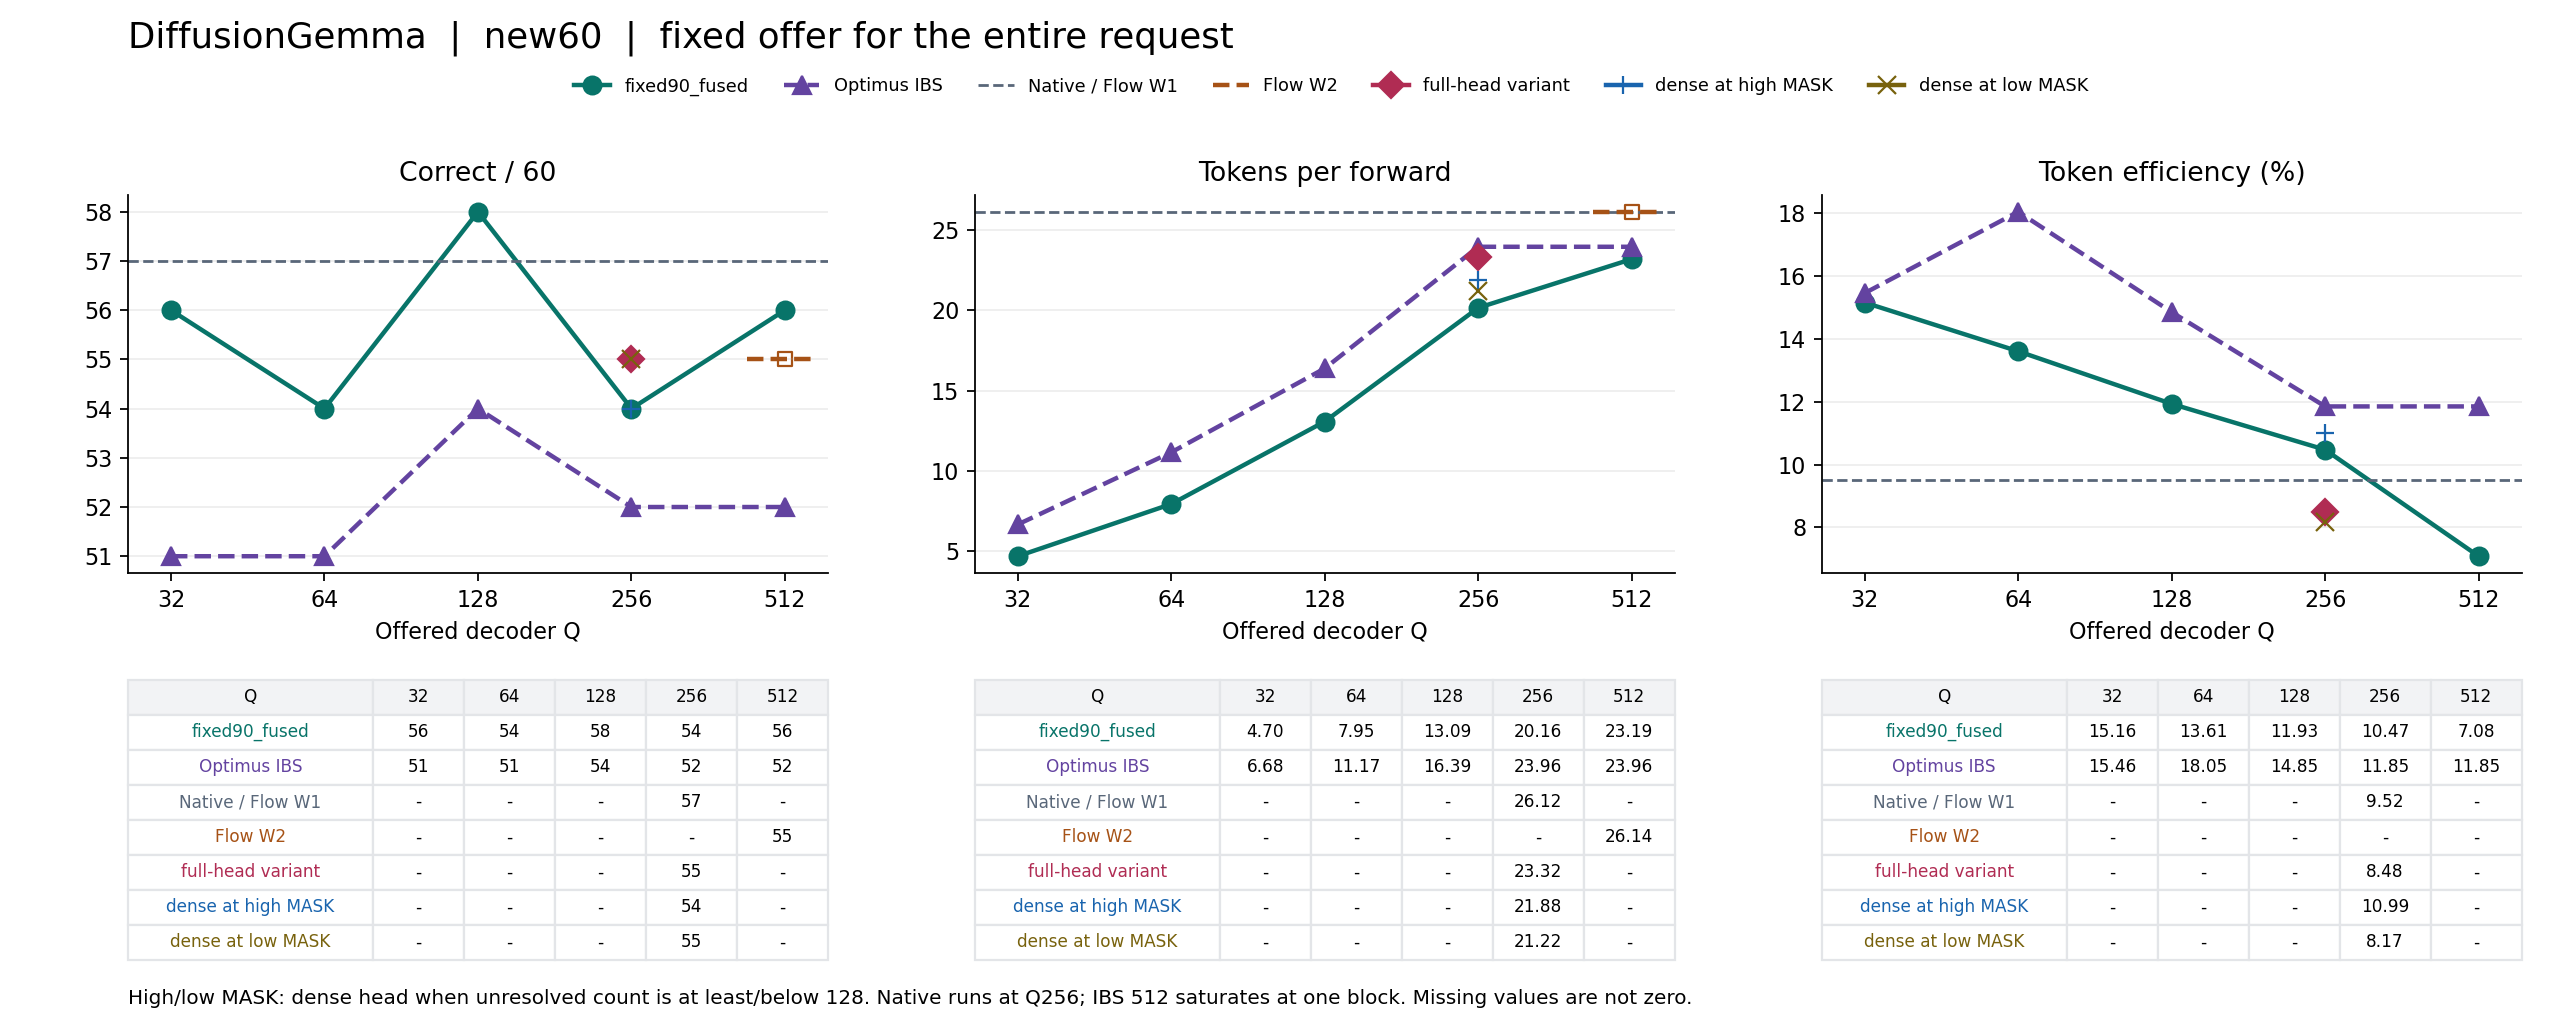
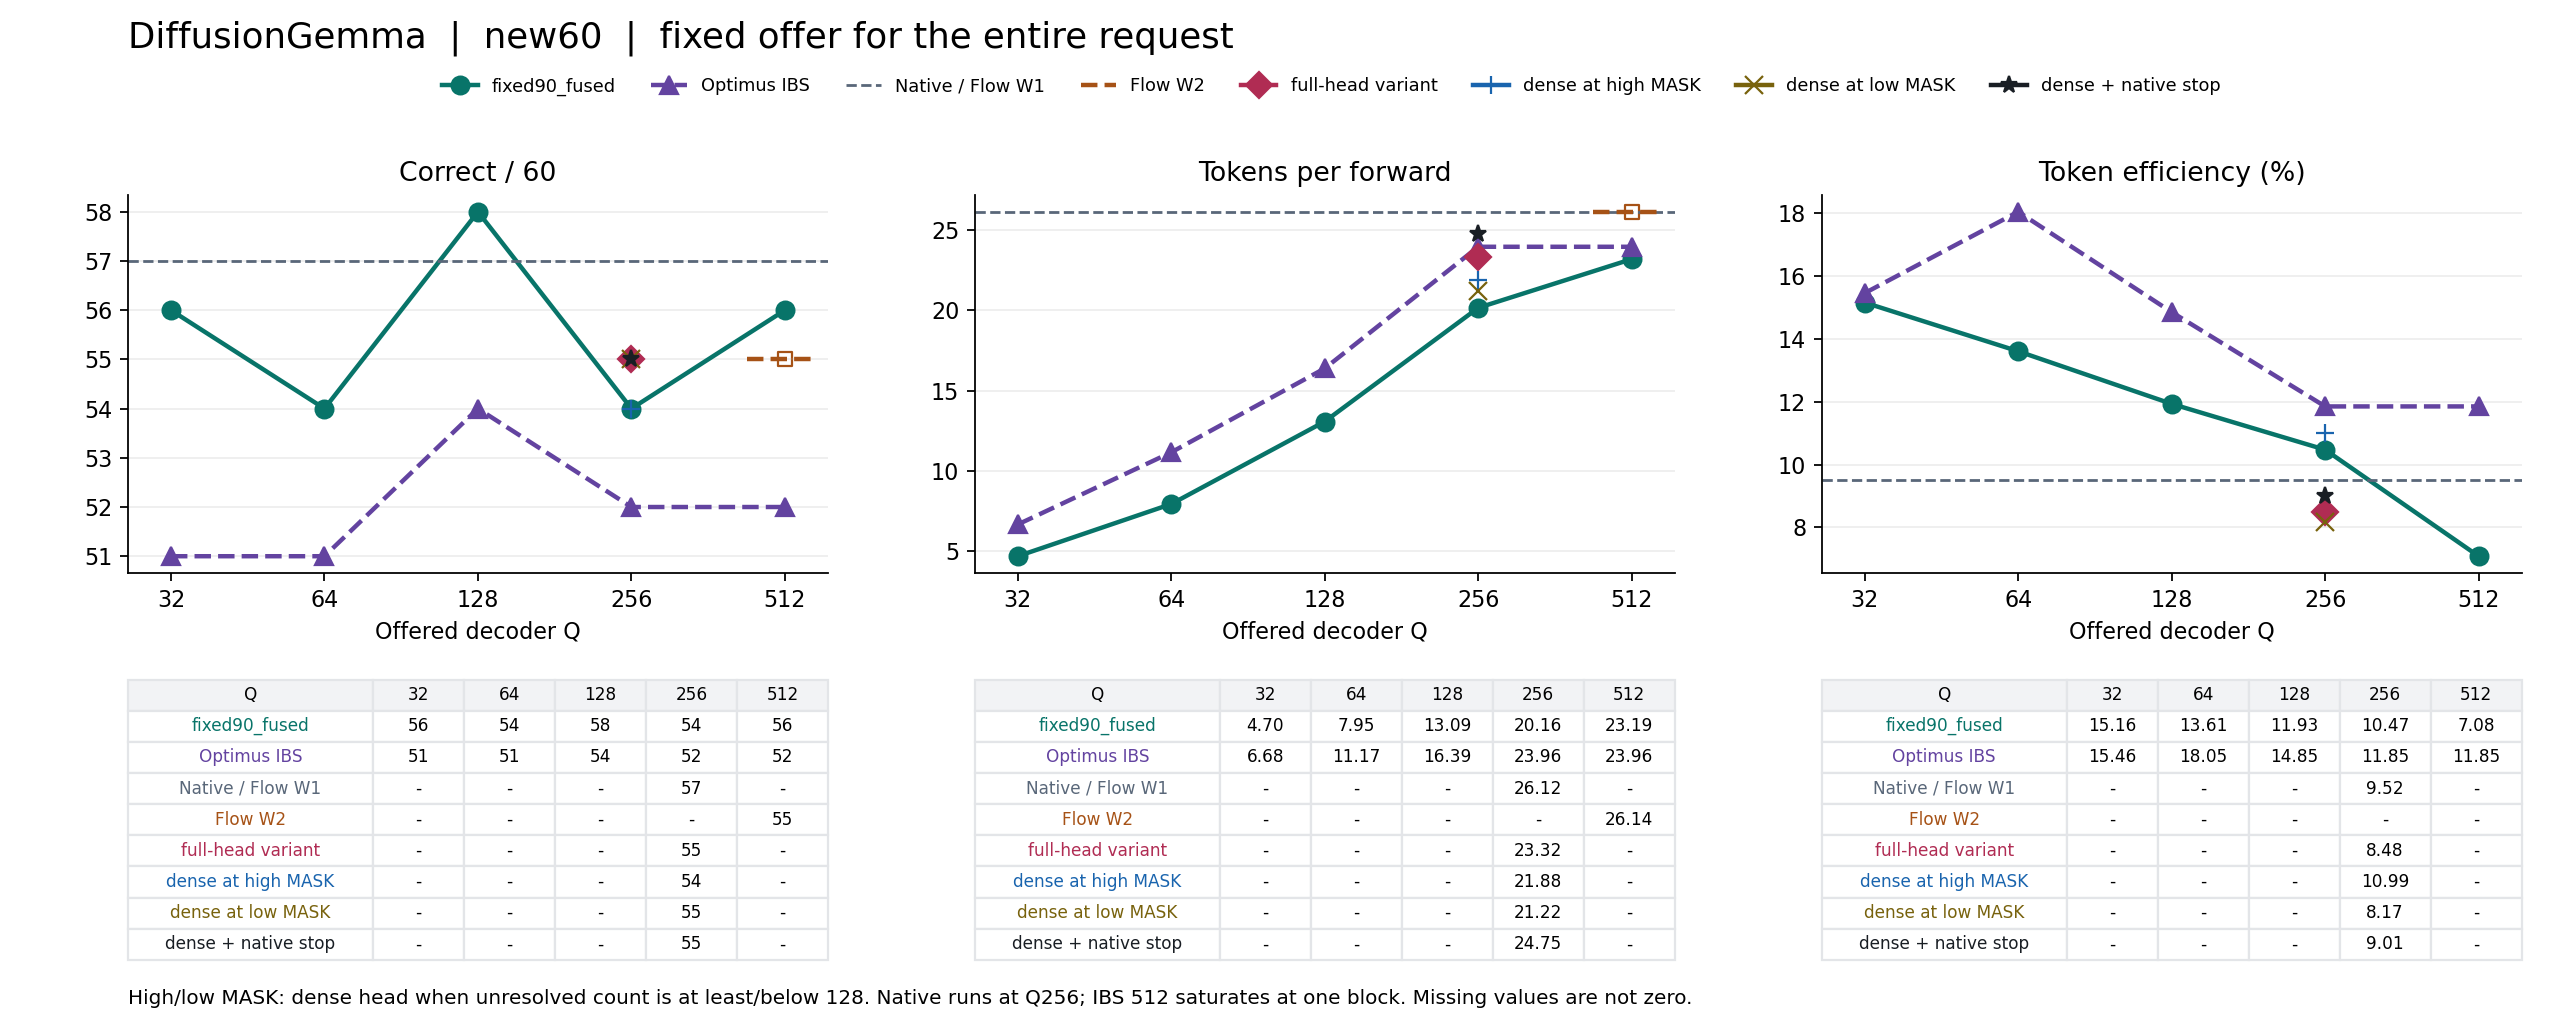
Archive frozen90 dense head stop gain, workload and remaining native gap

diff --git a/experiments/t2t/serving_slots/plot_fixed_gemma_profile.py b/experiments/t2t/serving_slots/plot_fixed_gemma_profile.py
@@ -1,5 +1,6 @@
 """Publish the measured fixed profile against same-cohort external controls."""
 import csv
+import json
 from pathlib import Path
 
 from .factor_tables import write_csv
@@ -19,6 +20,7 @@ def read(path):
 def collect():
     studies = {k:read(FACTORS/k/"paired.csv") for k in ("close","profile-close","capacity","density")}
     baselines = read(ROOT/"block-history90-matrix.csv")
+    stops = {r['cohort']:r for r in map(json.loads,(FACTORS/"fullstop"/"dense-summary.jsonl").read_text().splitlines())}
     rows = []
     for cohort, external, n in COHORTS:
         for c in TIERS:
@@ -44,6 +46,15 @@ def collect():
                     avg_decoder_Q=int(r["decoder_Q"])/int(r["decoder_F"]),peak_decoder_Q=int(r["peak_decoder_Q"]),
                     F=int(r["F"]),N=int(r["N"]),history_Q=int(r["history_Q"]),physical_Q=int(r["physical_Q"]),
                     source=f"gemma-factors/{study}/paired.csv",**roles))
+        result=stops[cohort]
+        stop=result["on"]
+        if (result["tier"]!=256 or result["matched"]!=n or stop["scored"]!=n or result["prior_control_different"]
+                or stop['ticks']*256!=stop['decoder_Q'] or sum(stop['roles'].values())!=stop['decoder_Q']):
+            raise ValueError("Unqualified dense head stop")
+        rows.append(dict(cohort=cohort,method="dense + native stop",budget=256,n=n,correct=stop["correct"],
+            macro_TPF=stop["macro_TPF"],token_efficiency=stop["token_efficiency"],avg_decoder_Q=256,peak_decoder_Q=256,
+            F=stop["F"],N=stop["N"],history_Q=stop["decoder_Q"],physical_Q=stop["decoder_Q"]+stop["encoder_Q"],
+            source="gemma-factors/fullstop/dense-summary.jsonl",**{f"Q_{k}":stop["roles"][k] for k in ROLES}))
         for method, setting, c, label in [
             *(("ibs",q,q,"Optimus IBS") for q in TIERS), ("native",256,256,"Native / Flow W1"),
             ("flow",2,512,"Flow W2"),
@@ -68,7 +79,7 @@ def plot(path, rows):
     n, = {r["n"] for r in rows}
     palette={"fixed90_fused":"#087469","Optimus IBS":"#6343a0","Native / Flow W1":"#596779",
              "Flow W2":"#a65216","full-head variant":"#b02c53",
-             "dense at high MASK":"#1964ae","dense at low MASK":"#78620d"}
+             "dense at high MASK":"#1964ae","dense at low MASK":"#78620d","dense + native stop":"#191e24"}
     fig, axes = plt.subplots(1,3,figsize=(16,6.4))
     handles = {}
     for ax, (col,title,scale) in zip(axes, (("correct",f"Correct / {n}",1),
@@ -88,7 +99,7 @@ def plot(path, rows):
                 ax.scatter(x,y,marker="s",facecolors="none",edgecolors=color,s=40)
             else:
                 h,=ax.plot(x,y,marker={"fixed90_fused":"o","Optimus IBS":"^","full-head variant":"D",
-                                       "dense at high MASK":"+","dense at low MASK":"x"}[name],
+                                       "dense at high MASK":"+","dense at low MASK":"x","dense + native stop":"*"}[name],
                            ls="--" if name=="Optimus IBS" else "-",color=color,lw=2,ms=8)
             handles[name]=h
         ax.set(xticks=range(len(TIERS)),xticklabels=TIERS,xlabel="Offered decoder Q",title=title,xlim=(-.28,4.28))

diff --git a/experiments/t2t/serving_slots/controls/gemma-factors/fullstop/readout.py b/experiments/t2t/serving_slots/controls/gemma-factors/fullstop/readout.py
@@ -146,6 +146,16 @@ for c,indices in target.items():
                             resets={k:sum(s['resets'][k] for s in obs) for k in codes})
             if dense:
                 out[label]['token_efficiency']=out[label]['N']/out[label]['decoder_Q']
+                # A verify_paid call is also the measured final input write. Even an
+                # exact full draft would not by itself make this call redundant.
+                out[label]['plain_verify_F']=sum(r['route_F'].get('verify',0) for r in arm)
+                out[label]['verify_with_writes_F']=sum(r['fused_F'] for r in arm)
+                out[label]['covered_final_writes_Q']=sum(r['fused_dirty_Q'] for r in arm)
+                roles=Counter()
+                for r in arm:
+                    assert sum(r['categories'].values())==r['decoder_Q']
+                    roles.update(r['categories'])
+                out[label].update(roles=dict(roles),encoder_Q=sum(r['encoder_Q'] for r in arm))
         ds=[b['N']/b['F']-a['N']/a['F'] for a,b in pairs]
         fs=[b['F']-a['F'] for a,b in pairs]
         out.update(delta_macro_TPF=round(statistics.mean(ds),4), delta_TPF_ci95=ci(pairs,ds),

diff --git a/tests/test_cross_race_report.py b/tests/test_cross_race_report.py
@@ -268,7 +268,7 @@ def test_gemma_published_fixed_offers_and_denominators():
     data=collect()
     for cohort,_,n in COHORTS:
         part=[r for r in data if r["cohort"]==cohort]
-        assert len(part)==15 and all(r["n"]==n for r in part)
+        assert len(part)==16 and all(r["n"]==n for r in part)
         points=[r for r in part if r["method"].startswith("dense at ")]
         assert len(points)==2 and all(r["budget"]==r["peak_decoder_Q"]==256 for r in points)
         if n==90:

diff --git a/experiments/t2t/serving_slots/design_race/README.md b/experiments/t2t/serving_slots/design_race/README.md
@@ -25,6 +25,15 @@
 冷启动、终检和满额写回没有此配额。因此小档若慢，优先查纯刷新轮次、冷启动推进和终检切片，
 而非先砍掉所有前缀。四类的总和不是物理 FLOPs，encoder 另计。见[逐档账表](../controls/gemma-factors/fixed-profile/metrics.csv)。
 
+**终判语义不等于多做一次 forward。** 固定的 Transformers 5.12.0
+`generation_diffusion_gemma.py` 中，`_denoising_step` 从本轮整头的 processed logits
+生成 `argmax_canvas`；`generate` 的阶段 1.d 在停止后直接拼接它，再 `_finalize_canvas`。
+原生并不额外执行我们稀疏算法的终检。选行模式的各行可能来自不同时刻，不能将这些旧 logits
+拼成一个“本轮整头”；当前路径用有序终检形成最终输出。[dense-stop](../controls/gemma-factors/README.md)
+只改变何时终止采样，**没有**删除终检。下一项独立验证应逐块比较同轮完整原生 draft 与新终检，
+分别记录首个 EOS、最终答案、节省的 F/Q、下一块的 encoder 输入。不同则视为改变算法，
+不得当作无损等价；分片、跨上下文、未观察的行均不可走这个捷径。
+
 1. 外层只给当前的 `C`，没有未来预算或答案。请求保存绝对位置、物理块 ID、token/接受状态、每块内的连续前缀、dirty/初始化位图、上下文版本、采样器状态和终检游标；预算不是缓存键。块内双向、前块 Q 不见后块 KV、后块 Q 可见合法的前块 KV。未建和失效 KV 不可当作有效 KV。
 2. **不能省的是一致性，不是所有已解位置都要重算。** 上轮 M2T、T2T 或撤销导致 token/接受状态变化，进入必刷集合；在当前方案中，若 Gemma 所用采样路径还改变了输入 token（含 re-noise），也按其契约记录。合法复用的是相同上下文中没有失效的缓存。干净前缀复看与必刷单列。终止/EOS、LLaDA 的所选对照执行器要求的 commit、Gemma 的终检/非终止块 encoder 提交都不能静默略掉；不同执行器有不同结束语义，不能把旧消融的退休规则冒充原生 commit。
 3. **钱紧时**：先还必刷和到期屏障；`dirty>=C` 且无法完整一致地采样时，分轮只刷新，不推进采样时钟。若尚有余额且有头块未解 MASK，优先保证头块能获得至少一个真实可采样的位置；需要首次建立上下文的行优先于可选复看。仅在上下文有效、该行本轮确有可用输出、模型规则允许时，刷新可与采样共用同一次 forward。不会为了维持固定比例而搁置必刷行。

diff --git a/experiments/t2t/serving_slots/controls/gemma-factors/README.md b/experiments/t2t/serving_slots/controls/gemma-factors/README.md
@@ -224,3 +224,24 @@ verify. The encoder is charged; no terminal work is hidden. Pairs stay on
 A800 GPU4 in alternating order. On the cluster, `python fullstop/readout.py
 --dense-stop` from this directory audits the receipts; add `--complete` to
 require all 180 scored receipts. A partial readout is not a frozen90 result.
+
+**Result: all 180 scored; same A800 per pair.** Every shadow run reproduced
+the archived physical Q256 control (IDs and F/Q). Switching the native stop
+on only after two consecutive complete measured head samples gave:
+
+| Fixed dense Q256: shadow → apply | Correct | Macro TPF | Selected-Q TE | Total F | Decoder Q |
+|---|---:|---:|---:|---:|---:|
+| Original 30 | 28 → 28 | 22.184 → 23.259 | 7.69% → 8.06% | 540 → 516 | 132,096 → 125,952 |
+| Added 60 | 55 → 55 | 23.318 → 24.749 | 8.48% → 9.01% | 1,064 → 1,004 | 257,792 → 242,432 |
+| Frozen 90 | 83 → 83 | 22.940 → 24.252 | 8.21% → 8.69% | 1,604 → 1,520 | 389,888 → 368,384 |
+
+No question changed correctness; four full ID sequences changed. Final N was
+32,006 in both groups. 51 requests used fewer F, 39 tied, none increased;
+paired macro TPF delta +1.312 (95% stratified bootstrap interval +0.980 to
++1.692). All 171 terminal verify calls in each arm also wrote pending inputs.
+This result is for *fixed* Q256; don't transfer it to a mixed path or to the
+two-canvas Q512 stop. Historical Optimus IBS256 is 79/90, 23.656, 11.10%
+(nominal budget); native Q256 is 85/90, 25.510, 9.31%. The candidate beats
+IBS on the two main metrics but not on selected-row efficiency, and trails
+native on all three. See [cohorts](fullstop/dense-summary.jsonl) and
+[paired counts](fullstop/dense-pairs.csv).
